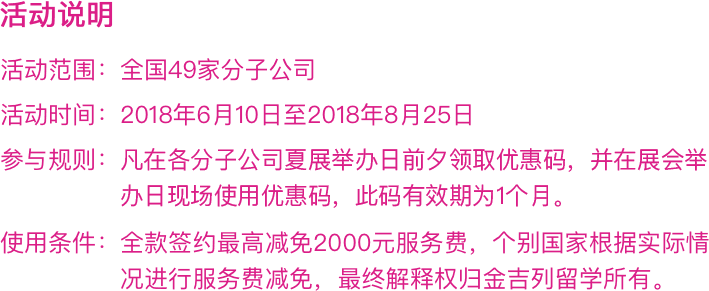
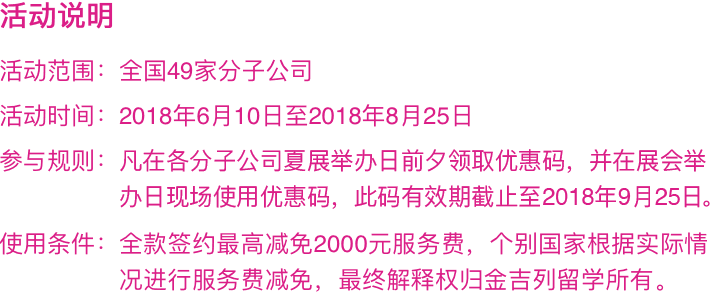
修改优惠券 审核人：海亮

diff --git a/views/coupon.html b/views/coupon.html
@@ -246,13 +246,14 @@
           <div class="form-yimin-btn"><span id="evaluationBtn">点击获取优惠码</span></div>
         </div>
         {# 活动说明 #}
-        <div class="cou_act">
+        {#<div class="cou_act">
           <div class="cou_act_t">活动说明</div>
           <div class="cou_act_c">活动范围：全国49家分子公司</div>
           <div class="cou_act_c1">活动时间：2018年6月10日至2018年8月25日</div>
           <div class="cou_act_c1"><span>参与规则：</span>凡在各分子公司夏展举办日前夕领取优惠码，并在展会举办日现场使用优惠码，此码有效期截止至2018年9月25日。</div>
           <div class="cou_act_c1"><span>使用条件：</span>全款签约最高减免2000元服务费，个别国家根据实际情况进行服务费减免，最终解释权归金吉列留学所有。</div>
-        </div>
+        </div>#}
+        <img src="{{helper.cdnhost}}/assets/img/coupon_ti1.png" alt="" class="cou_ti" style="margin: 30px 0px">
       </div>
       {% include "m_widget/footer/common_footer.html" %}
     </div>
